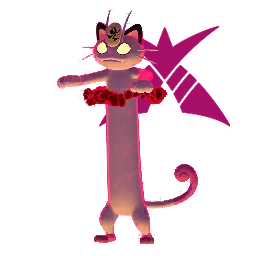
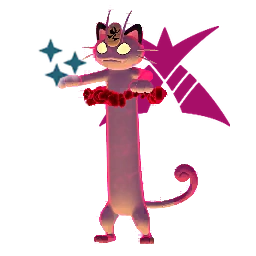
no message

Changed region(s): [[0.1562, 0.1562, 0.3438, 0.3438]]

diff --git a/script/assets/gigamax shiny/creer_asset_gigamax_shiny.py b/script/assets/gigamax shiny/creer_asset_gigamax_shiny.py
@@ -3,7 +3,8 @@ from PIL import Image
 
 INPUT_DIR = "assets_a_traiter"
 OUTPUT_DIR = "result_gigamax/"
-LOGO_PATH = "gigamax_logo.png"
+GIGAMAX_LOGO_PATH = "gigamax_logo.png"
+SHINY_LOGO_PATH = "shiny_logo.png"
 
 LOGO_SCALE = 0.8
 BACKGROUND_MODE = True
@@ -11,67 +12,79 @@ LOGO_OPACITY = 140
 
 
 def is_allowed_file(filename: str) -> bool:
-    """Retourne True si l'image doit être traitée (contient GIGANTAMAX)."""
-    if not filename.lower().endswith(".png"):
-        return False
+    return filename.lower().endswith(".png")
 
-    # On traite uniquement les fichiers contenant 'GIGANTAMAX'
-    #return "gigantamax" in filename.lower()
 
-    return True
+def resize_logo(base_img: Image.Image, logo: Image.Image):
+    """Redimensionne et centre un logo."""
+    w, h = base_img.size
 
-def generate_gigamax(pokemon_path: str, output_path: str, logo: Image.Image):
-    """Génère l'image Gigamax pour un fichier donné."""
-    pokemon = Image.open(pokemon_path).convert("RGBA")
-
-    w, h = pokemon.size
-
-    # Redimension du logo
     new_w = int(w * LOGO_SCALE)
     ratio = new_w / logo.width
     new_h = int(logo.height * ratio)
+
     logo_resized = logo.resize((new_w, new_h), Image.LANCZOS)
 
-    # Position centrée
     lx = (w - new_w) // 2
     ly = (h - new_h) // 2
 
-    combined = Image.new("RGBA", (w, h), (0, 0, 0, 0))
+    return logo_resized, lx, ly
+
+
+def generate_image(pokemon_path: str, output_path: str,
+                   gigamax_logo: Image.Image,
+                   shiny_logo: Image.Image):
+
+    pokemon = Image.open(pokemon_path).convert("RGBA")
+    combined = Image.new("RGBA", pokemon.size, (0, 0, 0, 0))
+
+    # --- GIGAMAX ---
+    giga_resized, gx, gy = resize_logo(pokemon, gigamax_logo)
 
     if BACKGROUND_MODE:
-        combined.alpha_composite(logo_resized, (lx, ly))
+        combined.alpha_composite(giga_resized, (gx, gy))
         combined.alpha_composite(pokemon, (0, 0))
     else:
         combined.alpha_composite(pokemon, (0, 0))
-        combined.alpha_composite(logo_resized, (lx, ly))
+        combined.alpha_composite(giga_resized, (gx, gy))
+
+    # --- SHINY (exact même logique que ton script dédié) ---
+    shiny_resized, sx, sy = resize_logo(pokemon, shiny_logo)
+
+    if BACKGROUND_MODE:
+        combined.alpha_composite(shiny_resized, (sx, sy))
+    else:
+        combined.alpha_composite(shiny_resized, (sx, sy))
 
     combined.save(output_path, "PNG")
 
 
 def main():
-    if not os.path.exists(OUTPUT_DIR):
-        os.makedirs(OUTPUT_DIR)
+    os.makedirs(OUTPUT_DIR, exist_ok=True)
 
-    logo = Image.open(LOGO_PATH).convert("RGBA")
+    gigamax_logo = Image.open(GIGAMAX_LOGO_PATH).convert("RGBA")
+    shiny_logo = Image.open(SHINY_LOGO_PATH).convert("RGBA")
 
-    files = [f for f in os.listdir(INPUT_DIR) if is_allowed_file(f)]
+    files = [
+        f for f in os.listdir(INPUT_DIR)
+        if os.path.isfile(os.path.join(INPUT_DIR, f)) and is_allowed_file(f)
+    ]
 
-    print(f"Fichiers GIGANTAMAX détectés : {len(files)}")
-    print("Génération des assets Gigamax…\n")
+    print(f"Fichiers détectés : {len(files)}")
+    print("Génération des assets…\n")
 
     for filename in files:
         in_path = os.path.join(INPUT_DIR, filename)
 
-        # Nom de sortie ex : pm1.GIGANTAMAX.icon.png → pm1.GIGANTAMAX.icon_gigamax.png
         base, ext = os.path.splitext(filename)
         out_name = f"{base}_gigamax{ext}"
         out_path = os.path.join(OUTPUT_DIR, out_name)
 
-        generate_gigamax(in_path, out_path, logo)
+        generate_image(in_path, out_path, gigamax_logo, shiny_logo)
 
         print(f"✔ {filename} → {out_name}")
 
-    print("\nTerminé ! Les images Gigamax sont dans :", OUTPUT_DIR)
+    print("\nTerminé ! Les images sont dans :", OUTPUT_DIR)
 
 
 if __name__ == "__main__":
